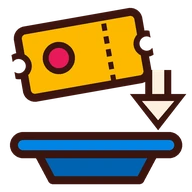
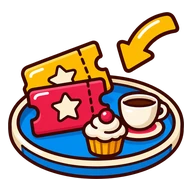
feat(mapa): pins maiores e selo por vizinhança no mapa real; ícone de retirada gerado
- Pin a 85% de longe (era 55%); sobreposição parcial (MIOLO 0,75: centro sempre livre), o mais ao sul na frente.
- Selo por vizinhança, sem corrente: a abertura passa de um selo "40" para 16 casas soltas e dois selos de 13; todas a partir do zoom 14.
- Abertura com zoom mínimo 12 no miolo das casas; no Google todo pin afastado move o marcador (área de toque certa).
- Ícone `retirada` refeito como imagem gerada (bandeja com vouchers); desenho por código removido.
- Testes: regra nova de sobreposição, controles do Google, porta 5214 no teste de layout, aviso de disputa fechado no de atalhos.

diff --git a/src/edicao/componentes/mapa/afastar.js b/src/edicao/componentes/mapa/afastar.js
@@ -146,13 +146,37 @@ export const CAIXA_RETIRADA = { w: 184, h: 98 }
 export const caixaDoPonto = (p) => (p.retirada ? CAIXA_RETIRADA : p.largo ? CAIXA_APOIO : p.sicredi ? CAIXA_SICREDI : CAIXA_CASA)
 export const LIMITE_GRUPO_PERTO = 12 // de perto (zoom ≥ zoomPerto) cabem mais pins no anel antes de virar selo
 export const ZOOM_SEM_SELO = 16 // daqui para cima nunca há selo: no mesmo endereço, todo pin é afastado
-export const ESCALA_LONGE = 0.55 // 16-mapa-tela.css: de longe o pin encolhe a esta fração, em volta da ponta
+// Revisão de 10/11/2026 (Wilker: "o tamanho dos pins tá muito ruim… tem que aproximar muito para aparecer os locais"). Antes: de longe o pin
+// encolhia a 55%, e o agrupamento era por CORRENTE (A encosta em B, B em C…): no zoom da cidade 38 das 42 unidades viravam um selo só, e
+// só no zoom 15 todas apareciam. Agora (medido com as 42 unidades reais): pin a 85% de longe; dois pins podem se sobrepor em parte (o
+// MIOLO do corpo, metade da caixa, é que não pode encostar: cabeça e logo seguem à vista); e o selo é por VIZINHANÇA (raio fixo em volta
+// do ponto mais cheio, sem corrente). Zoom 12,5: 24 soltas e selos de 5 a 8; zoom 13,5: 36; zoom 14: todas, com fios de até ~80 px.
+export const ESCALA_LONGE = 0.85 // 16-mapa-tela.css: de longe o pin encolhe a esta fração, em volta da ponta
+export const MIOLO = 0.75 // fração da caixa do pin que NÃO pode encostar em outro pin (o resto pode ficar por baixo do vizinho)
+const RAIO_VIZINHANCA = 0.7 // × largura do pin: pontos a esta distância do mais cheio entram na mesma vizinhança
+const TETO_VIZINHANCA = { longe: LIMITE_GRUPO, perto: 8 } // vizinhança com mais pins do que isso vira selo "+N"
+const SELO_CAIXA = 48
+
+/** Vizinhanças por raio (sem corrente): começa pelo ponto com mais vizinhos, leva os livres a até `raio` dele, repete. Estável (id). */
+export function vizinhancas (itens, raio) {
+  const perto = (a) => itens.filter((b) => Math.hypot(a.x - b.x, a.y - b.y) <= raio)
+  const quantos = new Map(itens.map((a) => [a.id, perto(a).length]))
+  const livres = new Set(itens.map((i) => i.id))
+  const grupos = []
+  for (const a of [...itens].sort((a, b) => quantos.get(b.id) - quantos.get(a.id) || porId(a, b))) {
+    if (!livres.has(a.id)) continue
+    const g = perto(a).filter((b) => livres.has(b.id))
+    for (const b of g) livres.delete(b.id)
+    grupos.push(g)
+  }
+  return grupos
+}
 
 /**
  * Plano de afastamento para os pontos do mapa real no zoom dado.
- * pontos: [{ id, lat, lng, sicredi? }] · zoom/tile: do provedor (Google 256, MapLibre 512) · zoomPerto: abaixo dele o mapa é "longe".
- * Grupo grande demais vira selo: mais de LIMITE_GRUPO pins de longe, mais de LIMITE_GRUPO_PERTO de perto, e nunca a partir de ZOOM_SEM_SELO
- * (quem está no mesmo endereço sempre aparece). O pin escolhido nunca some num selo.
+ * pontos: [{ id, lat, lng, sicredi?, apoio? }] · zoom/tile: do provedor (Google 256, MapLibre 512) · zoomPerto: abaixo dele o mapa é "longe".
+ * Selo só para vizinhança cheia (mais de TETO_VIZINHANCA pins) ou para sobra do afastamento acima do limite; nunca a partir de
+ * ZOOM_SEM_SELO. O pin escolhido nunca some num selo. Apoiadores ficam fora e são encaixados depois (encaixarFixos).
  */
 export function planejarNoMapa (pontos, { zoom, tile = 256, zoomPerto, selecionada = '' }) {
   const longe = zoom < zoomPerto
@@ -163,12 +187,42 @@ export function planejarNoMapa (pontos, { zoom, tile = 256, zoomPerto, seleciona
     return { id: p.id, x, y, w: c.w * escala, h: c.h * escala, apoio: !!p.apoio }
   })
   // Apoiadores (placa larga, às vezes com o selo de retirada) ficam FORA do agrupamento: entrando nele, a placa encostava em dois
-  // grupos de casas e os emendava num selo único da cidade inteira (10/11/2026: "45"), e o ponto de retirada sumia. Primeiro as
-  // casas e o Sicredi, como sempre; depois cada apoiador vai para o lugar livre mais perto do próprio ponto (com fio, se sair dele).
+  // grupos de casas e os emendava num selo único. Cada um vai depois para o lugar livre mais perto do próprio ponto (com fio).
   const casas = itens.filter((i) => !i.apoio)
-  const limite = longe ? LIMITE_GRUPO : zoom < ZOOM_SEM_SELO ? LIMITE_GRUPO_PERTO : Infinity
-  let plano = afastarPins(casas, { limite })
-  if (selecionada && plano.grupos.some((g) => g.ids.includes(selecionada))) plano = afastarPins(casas, { limite: Infinity })
+  // O miolo fica no MEIO do corpo (a ponta sobe a metade do que sobra): cabeça e logo contam, só a borda pode ficar por baixo do vizinho.
+  const nucleo = casas.map((i) => ({ ...i, y: i.y - (i.h * (1 - MIOLO)) / 2, w: i.w * MIOLO, h: i.h * MIOLO }))
+  const inteiro = new Map(casas.map((i) => [i.id, i]))
+  const semSelo = () => afastarPins(nucleo, { limite: Infinity })
+  let plano
+  if (zoom >= ZOOM_SEM_SELO) plano = semSelo()
+  else {
+    const teto = longe ? TETO_VIZINHANCA.longe : TETO_VIZINHANCA.perto
+    const viz = vizinhancas(nucleo, CAIXA_CASA.w * escala * RAIO_VIZINHANCA)
+    const selos = viz.filter((g) => g.length > teto).map((g) => ({ ids: g.map((m) => m.id), x: g.reduce((s, m) => s + m.x, 0) / g.length, y: g.reduce((s, m) => s + m.y, 0) / g.length }))
+    const presos = new Set(selos.flatMap((s) => s.ids))
+    // Nada fica debaixo de um selo: pin solto cujo corpo INTEIRO bate na caixa de um selo entra nele (só no primeiro; o selo não anda).
+    // O selo fica centrado na média das PONTAS (é onde o desenho o põe), então a conta usa as pontas verdadeiras.
+    for (const s of selos) { const m = s.ids.map((id) => inteiro.get(id)); s.x = m.reduce((t, i) => t + i.x, 0) / m.length; s.y = m.reduce((t, i) => t + i.y, 0) / m.length }
+    const soltos = []
+    for (const m of nucleo.filter((i) => !presos.has(i.id))) {
+      const c = caixa(inteiro.get(m.id))
+      const alvo = selos.find((s) => batem(c, { e: s.x - SELO_CAIXA / 2, d: s.x + SELO_CAIXA / 2, t: s.y - SELO_CAIXA / 2, b: s.y + SELO_CAIXA / 2 }, 0))
+      if (alvo) alvo.ids.push(m.id); else soltos.push(m)
+    }
+    const limite = longe ? LIMITE_GRUPO + 2 : LIMITE_GRUPO_PERTO
+    let resto = afastarPins(soltos, { limite })
+    if (resto.grupos.length) {
+      // Afastando, os soltos encostaram em corrente maior que o limite (ex.: zoom 13, pins de volta ao tamanho cheio): em vez de UM
+      // selo para a corrente toda, ela é quebrada em vizinhanças menores; só as cheias (mais de 3) viram selo, o resto é afastado.
+      const naCorrente = new Set(resto.grupos.flatMap((g) => g.ids))
+      const quebra = vizinhancas(soltos.filter((m) => naCorrente.has(m.id)), CAIXA_CASA.w * escala * RAIO_VIZINHANCA * 1.4)
+      for (const g of quebra.filter((g) => g.length > 3)) selos.push({ ids: g.map((m) => m.id), x: g.reduce((s, m) => s + m.x, 0) / g.length, y: g.reduce((s, m) => s + inteiro.get(m.id).y, 0) / g.length })
+      const presos2 = new Set(selos.flatMap((s) => s.ids))
+      resto = afastarPins(soltos.filter((m) => !presos2.has(m.id)), { limite })
+    }
+    plano = { desloc: resto.desloc, grupos: [...selos, ...resto.grupos] }
+  }
+  if (selecionada && plano.grupos.some((g) => g.ids.includes(selecionada))) plano = semSelo()
   return encaixarFixos(plano, casas, itens.filter((i) => i.apoio))
 }
 

diff --git a/src/edicao/componentes/mapa/MapaGoogle.jsx b/src/edicao/componentes/mapa/MapaGoogle.jsx
@@ -21,6 +21,7 @@ const MAP_ID = import.meta.env.VITE_GOOGLE_MAPS_MAP_ID || 'DEMO_MAP_ID'
 let avisarFalha = null
 if (typeof window !== 'undefined') window.gm_authFailure = () => avisarFalha?.()
 const NATAL = { lat: -5.81, lng: -35.21 }
+const ZOOM_ABERTURA = 12 // menor zoom na abertura do mapa (Google, tile 256): abaixo dele quase tudo vira selo
 const ZOOM_PERTO = 13 // abaixo disso o mapa mostra a cidade toda: pins pequenos (16-mapa-tela.css, .ct-mapa__mapa--longe)
 
 let carregando = null
@@ -96,10 +97,10 @@ export default function MapaGoogle ({ pontos, selecionada, aoSelecionar, voce = 
     feito.current = chave
     const plano = planejarNoMapa(pts, { zoom, tile: 256, zoomPerto: ZOOM_PERTO, selecionada: selecionadaRef.current })
     aplicarAfastamento(plano, pts, { elemento: (id) => marcadores.current.get(id)?.content, fio: (id) => fios.current.get(id)?.content })
-    // Apoiador (placa larga): quem pega o toque no Google é o próprio marcador, que fica onde está a posição dele. Deslocado só no
-    // desenho, ele deixava 176 px invisíveis sobre as casas vizinhas; então o marcador INTEIRO vai para o lugar livre (o fio segue no ponto).
+    // No Google quem pega o toque é o próprio marcador, que fica onde está a POSIÇÃO dele. Deslocado só no desenho (--dx/--dy), ele deixava
+    // a caixa invisível do pin no ponto verdadeiro, por cima do vizinho (placa larga dos apoiadores; e, com pins mais juntos desde 10/11, as
+    // casas também). Então o marcador INTEIRO vai para o lugar afastado; o fio continua no ponto verdadeiro. (MapLibre: o toque já é só no desenho.)
     for (const p of pts) {
-      if (!p.apoio) continue
       const mk = marcadores.current.get(p.id)
       if (!mk) continue
       const d = plano.desloc.get(p.id)
@@ -127,7 +128,7 @@ export default function MapaGoogle ({ pontos, selecionada, aoSelecionar, voce = 
       })
       const lat = membros.reduce((t, p) => t + p.lat, 0) / membros.length
       const lng = membros.reduce((t, p) => t + p.lng, 0) / membros.length
-      return marcadorClicavel(libs.current.AdvancedMarkerElement, { map: m, position: { lat, lng }, content: el, zIndex: 20 }, aproximar)
+      return marcadorClicavel(libs.current.AdvancedMarkerElement, { map: m, position: { lat, lng }, content: el, zIndex: 2000 }, aproximar)
     })
   }, [])
 
@@ -191,15 +192,27 @@ export default function MapaGoogle ({ pontos, selecionada, aoSelecionar, voce = 
     // O enquadramento segue as casas; só sem nenhuma casa na tela (filtro vazio) ele vai para as agências do Sicredi.
     const casas = pontos.filter((p) => !p.sicredi)
     const alvo = casas.length ? casas : pontos
-    // Fio abaixo (zIndex 1) de todos os pins (10): ele sai da ponta do pin e não pode passar por cima de nenhum.
+    // Fio abaixo (zIndex 1) de todos os pins (100 ou mais): ele sai da ponta do pin e não pode passar por cima de nenhum.
     for (const p of pontos) fios.current.set(p.id, new AdvancedMarkerElement({ map: m, position: { lat: p.lat, lng: p.lng }, content: fioDoPin(), zIndex: 1 }))
+    // Pins podem se sobrepor em parte (afastar.js › MIOLO): o mais ao SUL fica na frente, então a cauda dele cobre no máximo a cauda do
+    // vizinho de cima, nunca a cabeça com a logo. Ordem por latitude (100 + posição); patrocínio com promoção e apoiadores acima; selos (2000) no topo.
+    const ordemSul = new Map([...pontos].sort((a, b) => b.lat - a.lat).map((p, i) => [p.id, i]))
     for (const p of pontos) {
       const pos = { lat: p.lat, lng: p.lng }
-      marcadores.current.set(p.id, marcadorClicavel(AdvancedMarkerElement, { map: m, position: pos, content: elementoDoPonto(p), title: [p.titulo, p.promocao].filter(Boolean).join(' · '), zIndex: p.promocao ? 12 : 10 }, umaVez(() => aoSelecionar(p.id))))
+      const z = p.apoio ? 1500 : p.promocao ? 1200 : 100 + ordemSul.get(p.id)
+      marcadores.current.set(p.id, marcadorClicavel(AdvancedMarkerElement, { map: m, position: pos, content: elementoDoPonto(p), title: [p.titulo, p.promocao].filter(Boolean).join(' · '), zIndex: z }, umaVez(() => aoSelecionar(p.id))))
     }
     for (const p of alvo) limites.extend({ lat: p.lat, lng: p.lng })
-    if (alvo.length > 1) m.fitBounds(limites, 48)
-    else if (alvo.length === 1) { m.setCenter({ lat: alvo[0].lat, lng: alvo[0].lng }); m.setZoom(15) }
+    if (alvo.length > 1) {
+      m.fitBounds(limites, 48)
+      // Tela estreita: caber a região inteira (Zona Norte a Parnamirim) pedia zoom ~11 e quase tudo virava selo. Abre no miolo das casas
+      // (mediana) com zoom mínimo de abertura; quem está mais longe fica a um arrasto (Wilker, 10/11/2026: "tem que aproximar muito").
+      window.google.maps.event.addListenerOnce(m, 'idle', () => {
+        if ((m.getZoom() ?? ZOOM_ABERTURA) >= ZOOM_ABERTURA) return
+        const mediana = (v) => { const o = [...v].sort((a, b) => a - b); return o[Math.floor(o.length / 2)] }
+        m.setCenter({ lat: mediana(alvo.map((p) => p.lat)), lng: mediana(alvo.map((p) => p.lng)) }); m.setZoom(ZOOM_ABERTURA)
+      })
+    } else if (alvo.length === 1) { m.setCenter({ lat: alvo[0].lat, lng: alvo[0].lng }); m.setZoom(15) }
     reorganizar(true)
   }, [pronto, pontos.map((p) => p.id).join(), aoSelecionar, reorganizar])
 

diff --git a/src/edicao/componentes/mapa/MapaUnidades.jsx b/src/edicao/componentes/mapa/MapaUnidades.jsx
@@ -104,7 +104,8 @@ export default function MapaUnidades ({ pontos, selecionada, aoSelecionar, voce 
     const alvo = pontos.some((p) => !p.sicredi) ? pontos.filter((p) => !p.sicredi) : pontos
     // Os fios entram ANTES dos pins: no DOM, quem vem depois fica por cima, e o fio tem que passar por baixo de todos os pins.
     for (const p of pontos) fios.current.set(p.id, new maplibregl.Marker({ element: fioDoPin(), anchor: 'center' }).setLngLat([p.lng, p.lat]).addTo(m))
-    for (const p of pontos) {
+    // Do norte para o sul: no DOM quem vem depois fica na frente, então o pin mais ao sul cobre no máximo a cauda do vizinho de cima (afastar.js › MIOLO).
+    for (const p of [...pontos].sort((a, b) => b.lat - a.lat || (a.id < b.id ? -1 : 1))) {
       const el = document.createElement('button')
       el.type = 'button'
       if (p.sicredi) { // patrocinador: marcador próprio, fora da contagem de marcadores das casas (.ct-marcador)
@@ -124,8 +125,14 @@ export default function MapaUnidades ({ pontos, selecionada, aoSelecionar, voce 
       marcadores.current.set(p.id, mk)
     }
     for (const p of alvo) limites.extend([p.lng, p.lat])
-    if (alvo.length > 1) m.fitBounds(limites, { padding: 48, maxZoom: 15, duration: 0 })
-    else if (alvo.length === 1) m.jumpTo({ center: [alvo[0].lng, alvo[0].lat], zoom: 15 })
+    if (alvo.length > 1) {
+      m.fitBounds(limites, { padding: 48, maxZoom: 15, duration: 0 })
+      // Mesmo zoom mínimo de abertura do Google (12 com tile 256 = 11 no MapLibre, tile 512), no miolo das casas (mediana).
+      if (m.getZoom() < 11) {
+        const mediana = (v) => { const o = [...v].sort((a, b) => a - b); return o[Math.floor(o.length / 2)] }
+        m.jumpTo({ center: [mediana(alvo.map((p) => p.lng)), mediana(alvo.map((p) => p.lat))], zoom: 11 })
+      }
+    } else if (alvo.length === 1) m.jumpTo({ center: [alvo[0].lng, alvo[0].lat], zoom: 15 })
     reorganizar()
   }, [pontos.map((p) => p.id).join(), aoSelecionar, reorganizar])
 

diff --git a/src/styles/cartoon/16-mapa-tela.css b/src/styles/cartoon/16-mapa-tela.css
@@ -208,11 +208,11 @@
 /* Mapa real, escala por zoom: de longe (cidade inteira) o DESENHO do pin encolhe (a caixa do botão, o alvo de toque, segue de 44 px);
    o escolhido e os de perto ficam cheios. */
 .ct-pin, .ct-sicredi-pin { transform-origin: 50% 100%; transition: scale 180ms var(--ct-mo-quique); }
-.ct-mapa__mapa--longe .ct-marcador--pin:not(.is-sel) .ct-pin, .ct-mapa__mapa--longe .ct-sicredi-marcador:not(.is-sel) .ct-sicredi-pin { scale: .55; }
+.ct-mapa__mapa--longe .ct-marcador--pin:not(.is-sel) .ct-pin, .ct-mapa__mapa--longe .ct-sicredi-marcador:not(.is-sel) .ct-sicredi-pin { scale: .85; }
 /* Área de toque: a caixa do marcador tem o tamanho do desenho SEM a escala e, de longe, passaria por cima do pin vizinho. Só o desenho e o alvo
    de 44 px dele (.ct-alvo, que acompanha a escala) recebem o toque. */
 .ct-mapa__mapa { --esc: 1; }
-.ct-mapa__mapa--longe { --esc: .55; }
+.ct-mapa__mapa--longe { --esc: .85; }
 .ct-sicredi-pin { position: relative; }
 .ct-sicredi-pin__promocao { position: absolute; z-index: 3; left: 50%; bottom: calc(100% + 8px); display: grid; place-items: center; padding: 3px; transform: translateX(-50%); border: 2px solid var(--ct-chocolate); border-radius: 10px; background: var(--ct-amarelo); box-shadow: 2px 3px 0 var(--ct-chocolate); }
 .ct-edicao .ct-sicredi-pin__promocao img { width: 32px; height: 32px; max-width: none; animation: ct-mundo-voucher-pisca 1.3s ease-in-out infinite; }

diff --git a/src/styles/cartoon/11-mundo.css b/src/styles/cartoon/11-mundo.css
@@ -311,9 +311,9 @@
 /* No mapa real: a etiqueta entra no próprio marcador, acima da placa (o marcador inteiro é o alvo do toque). */
 .ct-sicredi-pin--retirada { gap: 4px; }
 .ct-edicao .ct-sicredi-pin--largo .ct-sicredi-pin__placa img { max-width: 150px; height: 26px; margin: 6px 10px; }
-/* De longe o pin encolhe (16-mapa-tela.css, `scale: .55`), mas `scale` não muda a caixa: o marcador do Google seguia com 176 × 95 px
+/* De longe o pin encolhe (16-mapa-tela.css, `scale: .85`), mas `scale` não muda a caixa: o marcador do Google seguia com 176 × 95 px
    invisíveis por cima das casas vizinhas, pegando o toque delas. Na placa larga o encolhimento é de tamanho de verdade (`zoom`). */
-.ct-mapa__mapa--longe .ct-sicredi-marcador:not(.is-sel) .ct-sicredi-pin--largo { scale: 1; zoom: .55; }
+.ct-mapa__mapa--longe .ct-sicredi-marcador:not(.is-sel) .ct-sicredi-pin--largo { scale: 1; zoom: .85; }
 .ct-mapa__cartao-cabeca .ct-retirada { margin-bottom: 4px; }
 .ct-caca-mapa__sicredi-aviso { margin: 0; }
 .ct-caca-mapa__carimbo-sicredi {

diff --git a/scripts/edicao/icones-atalhos.py b/scripts/edicao/icones-atalhos.py
@@ -4,8 +4,11 @@
   dos ícones existentes como referência de estilo; prompts em docs/cartoon-2026-2/16-icones-atalhos.md) e aqui só recortados e
   ajustados ao quadro de 192 px. Antes o atalho "Prêmios" reaproveitava o recorte do troféu e o "Ranking" um pódio desenhado à mão;
   ambos saíram (Wilker, 07/11: "tem que fazer ícones novos que combinem").
+- `retirada` (10/11/2026, ponto de retirada dos vouchers): ILUSTRADO pela API (bandeja azul com dois vouchers, cupcake e café, seta
+  amarela entrando), mesma folha de referência; prompt em docs/cartoon-2026-2/16-icones-atalhos.md. O desenho por código saiu (Wilker:
+  "não é para construir um ícone, é para gerar uma imagem").
 Uso: python scripts/edicao/icones-atalhos.py                     (refaz o carimbo-delivery)
-     python scripts/edicao/icones-atalhos.py vouchers=a.png ranking=b.png   (ajusta os PNG gerados e grava os WebP)"""
+     python scripts/edicao/icones-atalhos.py vouchers=a.png ranking=b.png retirada=c.png   (ajusta os PNG gerados e grava os WebP)"""
 from pathlib import Path
 from PIL import Image, ImageDraw, ImageFont
 
@@ -58,46 +61,12 @@ def ajustar_png(origem, nome):
     out.alpha_composite(im, ((S - im.width) // 2, (S - im.height) // 2))
     out.save(ICONES / f'{nome}.webp', quality=92, method=6)
 
-
-def retirada():
-    """`retirada` (10/11/2026): ponto de retirada dos vouchers. Bilhete amarelo inclinado, seta descendo e bandeja azul que recebe.
-    Traço grosso (8 px no quadro de 192) e três cores chapadas para ler a 32 px no selo do pin."""
-    k = K
-    im = Image.new('RGBA', (S * k, S * k), (0, 0, 0, 0))
-    d = ImageDraw.Draw(im)
-    p = lambda *v: [c * k for c in v]
-    W = int(8 * k)
-    # bandeja (embaixo): aba larga + fundo, azul com sombra
-    d.polygon(p(36, 150, 156, 150, 140, 180, 52, 180), fill=SOMBRA[AZUL])
-    d.line(p(36, 150, 52, 180, 140, 180, 156, 150), fill=INK, width=W, joint='curve')
-    d.rounded_rectangle(p(10, 132, 182, 158), radius=13 * k, fill=AZUL, outline=INK, width=W)
-    # bilhete (em cima, inclinado): amarelo, picotado, recortes laterais
-    b = Image.new('RGBA', (140 * k, 86 * k), (0, 0, 0, 0))
-    bd = ImageDraw.Draw(b)
-    bd.rounded_rectangle((5 * k, 5 * k, 135 * k, 81 * k), radius=12 * k, fill=AMARELO, outline=INK, width=W)
-    for cx in (5, 135):
-        bd.ellipse(((cx - 13) * k, 30 * k, (cx + 13) * k, 56 * k), fill=INK)
-        bd.ellipse(((cx - 7) * k, 36 * k, (cx + 7) * k, 50 * k), fill=(0, 0, 0, 0))
-    for y in range(16, 74, 13):  # picote
-        bd.line((96 * k, y * k, 96 * k, (y + 7) * k), fill=INK, width=int(5 * k))
-    bd.ellipse((30 * k, 26 * k, 62 * k, 58 * k), fill=ROSA, outline=INK, width=int(6 * k))
-    b = b.rotate(10, resample=Image.BICUBIC, expand=True)
-    im.alpha_composite(b, (6 * k, 0))
-    # seta descendo do bilhete para a bandeja, à direita (contorno chocolate, miolo creme)
-    d.line(p(158, 70, 158, 100), fill=INK, width=int(26 * k))
-    d.line(p(158, 70, 158, 102), fill=CREME, width=int(12 * k))
-    d.polygon(p(130, 94, 186, 94, 158, 130), fill=INK)
-    d.polygon(p(142, 101, 174, 101, 158, 120), fill=CREME)
-    im.resize((S, S), Image.LANCZOS).save(ICONES / 'retirada.webp', quality=92, method=6)
-
 if __name__ == '__main__':
     import sys
     pares = [a.split('=', 1) for a in sys.argv[1:] if '=' in a]
     if pares:
         for nome, origem in pares:
             ajustar_png(origem, nome)
-    elif 'retirada' in sys.argv[1:]:
-        retirada()
     else:
         carimbo_delivery()
     print('ok')

diff --git a/docs/cartoon-2026-2/17-atualizacao-usabilidade-2026-11-09.md b/docs/cartoon-2026-2/17-atualizacao-usabilidade-2026-11-09.md
@@ -127,3 +127,12 @@ Pedido do Wilker: um pin por apoiador; ao tocar, o cartão lista todos os locais
 - **Unidade nova sem lugar na arte** herda o ponto da casa (`rota/mundo.js › completarUnidades`).
 - **Coordenadas**: 11 unidades corrigidas no banco e no conteúdo publicado (`scripts/edicao/coordenadas-2026-11-10.sql`, aplicado com ok do Wilker); Sicredi Cidade Verde e São Gonçalo corrigidos em `sicredi.js`. Pendências: número do Sicredi Cidade Verde (1995 × 2349); Mariana's com duas unidades no mesmo endereço.
 - **Caça**: a seção usa a faixa toda do trilho; central em 55/45. **Camadas do mapa**: cartão da casa não fica mais sob os botões do jogo nem sobre busca/zoom.
+
+### Pins maiores e agrupamento por vizinhança (10/11/2026, ajuste pedido pelo Wilker)
+
+- De longe o pin fica a **85%** (era 55%). Pins podem se sobrepor em até 25% de cada lado (`afastar.js › MIOLO = 0,75`): o centro de cada um continua livre para o toque, e o mais ao sul fica na frente (cabeça e logo sempre à vista).
+- **Selo por vizinhança** (`vizinhancas`), não mais por corrente: antes, a abertura do mapa real virava um selo "40"; agora abre com 16 casas soltas e dois selos de 13, e a partir do zoom 14 todas as 42 aparecem (antes, só no 15). Corrente longa no afastamento é quebrada em vizinhanças menores.
+- Abertura com zoom mínimo 12 no miolo das casas (mediana): no celular não abre mais com a região inteira, quase toda em selo.
+- No Google, todo pin afastado move o MARCADOR (a área de toque é o marcador), com o fio no ponto verdadeiro.
+- Ícone `retirada` refeito como imagem gerada (bandeja com vouchers, cupcake e café, seta entrando); o desenho por código saiu.
+- `test:mapa-layout` passou para a porta 5214 (a 5213 é da prévia do HyperFrames, `PORTAS.md`).

diff --git a/docs/cartoon-2026-2/16-icones-atalhos.md b/docs/cartoon-2026-2/16-icones-atalhos.md
@@ -13,6 +13,7 @@ Para refazer: gerar de novo pelos prompts abaixo e rodar `python scripts/edicao/
 
 Prompt comum: *mesmo estilo da folha de referência (contorno marrom #3A150F grosso, cor chapada saturada com sombra suave e um brilho branco, formas arredondadas, sem texto); um objeto centrado com ~12% de margem, fundo transparente, sem letras, números nem palavras.*
 - **vouchers**: dois vouchers sobrepostos e levemente abertos; o da frente rosa-vermelho (#E8195A) com estrela creme, entalhes semicirculares nas laterais e linha tracejada de destaque; o de trás amarelo (#FDB901) inclinado; um brilho pequeno.
+- **retirada** (10/11/2026, selo do ponto de retirada dos vouchers no mapa): bandeja redonda azul (#0184E4) de borda creme vista um pouco de cima; dentro dela dois vouchers em pé e abertos em leque (o da frente rosa-vermelho #E8195A com estrela creme e entalhes, o de trás amarelo #FDB901), um cupcake e uma xícara de café; uma seta curva amarela entrando na bandeja pelo alto à direita ("retire aqui"). Sem mãos, pessoas, rostos nem letras. Gerado em `medium`, US$ 0,023. O ícone desenhado por código antes dele foi reprovado.
 - **ranking**: pódio de três degraus visto de frente; o do meio amarelo (#FDB901) com uma coroa pequena acima, o da esquerda azul (#0184E4), o da direita rosa-vermelho (#E8195A, o mais baixo); em cada degrau um selo redondo branco com uma estrela no lugar do número.
 
 ## Controles do mapa em tela cheia (`16-mapa-tela.css`, `Atalhos.jsx`, `Mundo.jsx`)
